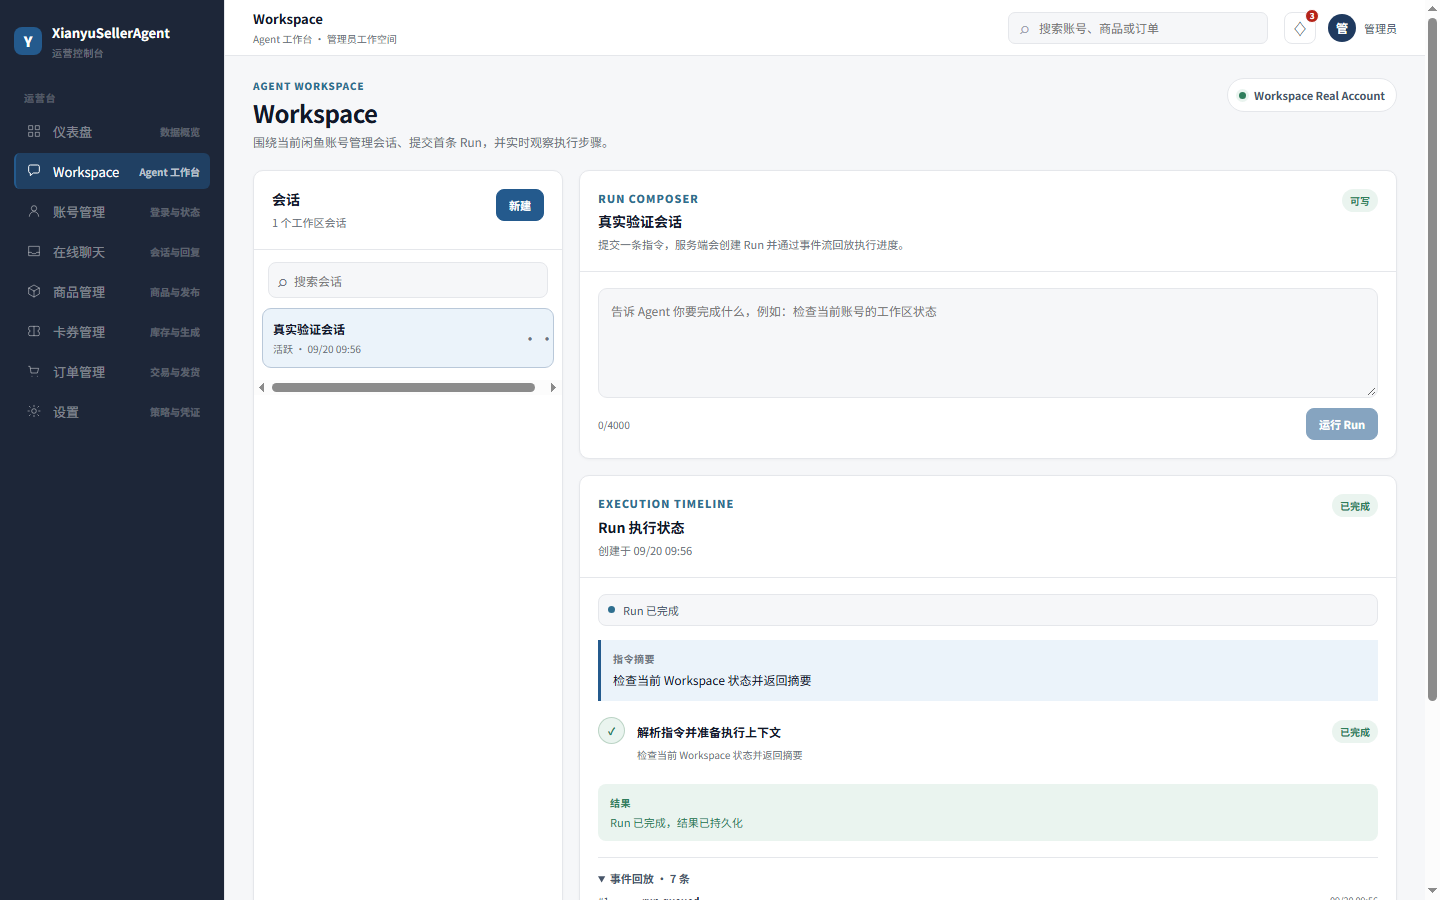
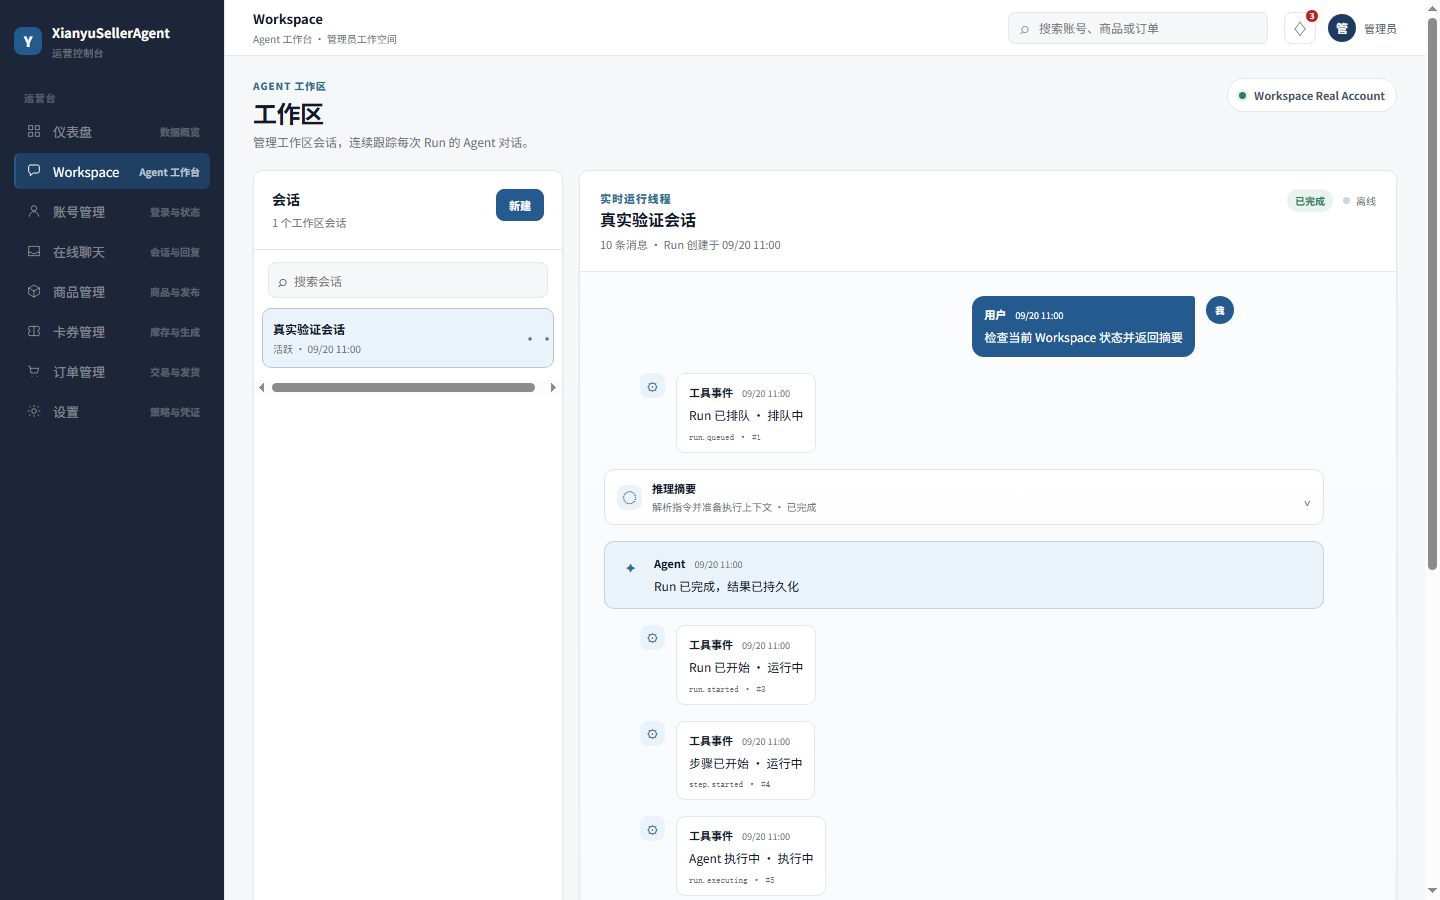
test(workspace): 适配连续消息流真实验收

diff --git a/apps/web/src/features/workspace/components/WorkspacePage.tsx b/apps/web/src/features/workspace/components/WorkspacePage.tsx
@@ -12,8 +12,8 @@ const terminalStatuses = new Set<WorkspaceRunStatus>(['succeeded', 'partially_su
 
 function statusLabel(status: string): string {
   const labels: Record<string, string> = {
-    queued: 'Queued', running: 'Running', waiting_confirmation: 'Waiting for confirmation', executing: 'Executing', retrying: 'Retrying', cancelling: 'Cancelling',
-    succeeded: 'Succeeded', partially_succeeded: 'Partially succeeded', failed: 'Failed', cancelled: 'Cancelled', expired: 'Expired', pending: 'Pending', skipped: 'Skipped',
+    queued: '排队中', running: '运行中', waiting_confirmation: '等待确认', executing: '执行中', retrying: '重试中', cancelling: '取消中',
+    succeeded: '已完成', partially_succeeded: '部分完成', failed: '失败', cancelled: '已取消', expired: '已过期', pending: '待执行', skipped: '已跳过',
   };
   return labels[status] ?? status;
 }
@@ -76,41 +76,41 @@ export function WorkspacePage({ api }: WorkspacePageProps) {
   return (
     <section className="page-stack workspace-domain" data-workspace-domain>
       <div className="page-title workspace-page-title">
-        <div><p className="eyebrow">Agent Workspace</p><h1>Workspace</h1><p>Manage sessions and follow each Run as a continuous agent conversation.</p></div>
-        <div className="workspace-scope"><span className={`workspace-scope-dot ${currentAccountId ? 'online' : ''}`} /><span>{currentAccount?.displayName ?? (contextMissing ? 'No account selected' : 'Loading account')}</span></div>
+        <div><p className="eyebrow">Agent 工作区</p><h1>工作区</h1><p>管理工作区会话，连续跟踪每次 Run 的 Agent 对话。</p></div>
+        <div className="workspace-scope"><span className={`workspace-scope-dot ${currentAccountId ? 'online' : ''}`} /><span>{currentAccount?.displayName ?? (contextMissing ? '未选择账号' : '账号加载中')}</span></div>
       </div>
 
-      {accountsError && <div className="workspace-inline-error" role="alert">Account context failed to load: {accountsError}</div>}
+      {accountsError && <div className="workspace-inline-error" role="alert">账号上下文加载失败：{accountsError}</div>}
       {state.error && <div className="workspace-inline-error" role="alert">{state.error}</div>}
 
-      {contextMissing ? <WorkspaceState title="Select an account first" message="Every Workspace session is scoped to one available Xianyu account." action={<button className="btn primary" type="button" onClick={chooseAccount}>Open accounts</button>} />
-        : state.phase === 'forbidden' ? <WorkspaceState title="Workspace access unavailable" message={state.error ?? 'Your current account scope cannot read Workspace.'} action={<button className="btn ghost" type="button" onClick={() => void controller.reload()}>Retry</button>} />
+      {contextMissing ? <WorkspaceState title="请先选择账号" message="每个工作区会话都绑定一个可用的闲鱼账号。" action={<button className="btn primary" type="button" onClick={chooseAccount}>前往账号管理</button>} />
+        : state.phase === 'forbidden' ? <WorkspaceState title="暂无工作区权限" message={state.error ?? '当前账号范围无法读取工作区。'} action={<button className="btn ghost" type="button" onClick={() => void controller.reload()}>重新加载</button>} />
           : <div className="workspace-layout">
             <aside className="card workspace-sessions-panel">
-              <div className="workspace-panel-head"><div><h2>Sessions</h2><p>{state.sessions.length} workspace sessions</p></div><button className="btn primary" type="button" onClick={() => setShowCreate((value) => !value)}>New</button></div>
-              {showCreate && <form className="workspace-create-form" onSubmit={submitSession}><label htmlFor="workspace-session-title">Session name</label><div className="workspace-create-row"><input id="workspace-session-title" value={newTitle} onChange={(event) => setNewTitle(event.target.value)} placeholder="Daily shop review" autoFocus /><button className="btn primary" type="submit" disabled={state.submitting || !newTitle.trim()}>Save</button></div></form>}
-              <label className="workspace-search"><span aria-hidden="true">⌕</span><input value={search} onChange={(event) => setSearch(event.target.value)} placeholder="Search sessions" aria-label="Search sessions" /></label>
+              <div className="workspace-panel-head"><div><h2>会话</h2><p>{state.sessions.length} 个工作区会话</p></div><button className="btn primary" type="button" onClick={() => setShowCreate((value) => !value)}>新建</button></div>
+              {showCreate && <form className="workspace-create-form" onSubmit={submitSession}><label htmlFor="workspace-session-title">会话名称</label><div className="workspace-create-row"><input id="workspace-session-title" value={newTitle} onChange={(event) => setNewTitle(event.target.value)} placeholder="例如：每日店铺巡检" autoFocus /><button className="btn primary" type="submit" disabled={state.submitting || !newTitle.trim()}>保存</button></div></form>}
+              <label className="workspace-search"><span aria-hidden="true">⌕</span><input value={search} onChange={(event) => setSearch(event.target.value)} placeholder="搜索会话" aria-label="搜索会话" /></label>
               <div className="workspace-session-list">
-                {state.phase === 'loading' && <div className="workspace-list-state">Loading sessions…</div>}
-                {state.phase !== 'loading' && visibleSessions.length === 0 && <div className="workspace-list-state">{state.sessions.length ? 'No matching sessions' : 'No sessions yet — create one to begin'}</div>}
-                {visibleSessions.map((session) => <SessionRow key={session.id} session={session} active={session.id === state.activeSessionId} busy={state.submitting} onSwitch={() => { if (session.status === 'active') void controller.switchSession(session.id); }} onArchive={() => { if (window.confirm(`Archive “${session.title}”?`)) void controller.archiveSession(session.id); }} />)}
+                {state.phase === 'loading' && <div className="workspace-list-state">正在加载会话…</div>}
+                {state.phase !== 'loading' && visibleSessions.length === 0 && <div className="workspace-list-state">{state.sessions.length ? '没有匹配的会话' : '还没有会话，先新建一个'}</div>}
+                {visibleSessions.map((session) => <SessionRow key={session.id} session={session} active={session.id === state.activeSessionId} busy={state.submitting} onSwitch={() => { if (session.status === 'active') void controller.switchSession(session.id); }} onArchive={() => { if (window.confirm(`归档“${session.title}”？`)) void controller.archiveSession(session.id); }} />)}
               </div>
             </aside>
 
             <section className="card workspace-thread" aria-label="Workspace conversation">
               <header className="workspace-thread-header">
-                <div><p className="eyebrow">Live Run Thread</p><h2>{activeSession?.title ?? 'Choose an active session'}</h2><p>{currentRun ? `${messages.length} messages · Run created ${formatTime(currentRun.createdAt)}` : 'Start a Run to see the agent conversation here.'}</p></div>
-                <div className="workspace-thread-meta">{currentRun && <span className={`workspace-status workspace-status-${statusTone(currentRun.status)}`}>{statusLabel(currentRun.status)}</span>}<span className={`workspace-connection workspace-connection-${state.connection}`}><span />{state.connection === 'connected' ? 'Live' : state.connection === 'reconnecting' ? 'Reconnecting' : state.connection === 'connecting' ? 'Connecting' : 'Offline'}</span>{currentRun && !terminalStatuses.has(currentRun.status) && state.connection !== 'connected' && <button className="btn ghost workspace-reconnect-button" type="button" onClick={controller.reconnectRun}>Reconnect</button>}</div>
+                <div><p className="eyebrow">实时运行线程</p><h2>{activeSession?.title ?? '选择活跃会话'}</h2><p>{currentRun ? `${messages.length} 条消息 · Run 创建于 ${formatTime(currentRun.createdAt)}` : '提交 Run 后，这里会展示连续的 Agent 消息流。'}</p></div>
+                <div className="workspace-thread-meta">{currentRun && <span className={`workspace-status workspace-status-${statusTone(currentRun.status)}`}>{statusLabel(currentRun.status)}</span>}<span className={`workspace-connection workspace-connection-${state.connection}`}><span />{state.connection === 'connected' ? '实时' : state.connection === 'reconnecting' ? '重连中' : state.connection === 'connecting' ? '连接中' : '离线'}</span>{currentRun && !terminalStatuses.has(currentRun.status) && state.connection !== 'connected' && <button className="btn ghost workspace-reconnect-button" type="button" onClick={controller.reconnectRun}>重连</button>}</div>
               </header>
 
               <div className="workspace-message-stream">
-                {currentRun ? <MessageStream messages={messages} expandedReasoning={expandedReasoning} onToggleReasoning={(id) => setExpandedReasoning((current) => current === id ? null : id)} /> : <WorkspaceState title="Waiting for the first Run" message={activeSession ? 'Write an instruction below to start a controlled execution.' : 'Choose an active session from the left.'} compact />}
+                {currentRun ? <MessageStream messages={messages} expandedReasoning={expandedReasoning} onToggleReasoning={(id) => setExpandedReasoning((current) => current === id ? null : id)} /> : <WorkspaceState title="等待首条 Run" message={activeSession ? '在下方输入一条指令，开始受控执行。' : '请从左侧选择一个活跃会话。'} compact />}
               </div>
 
               <form className="workspace-composer workspace-composer-docked" onSubmit={submitRun}>
-                <div className="workspace-composer-context"><span className={`workspace-composer-dot ${activeSession?.status === 'active' ? 'ready' : ''}`} /><span>{activeSession?.status === 'active' ? 'Ready to run' : 'Read-only session'}</span></div>
-                <textarea value={instruction} onChange={(event) => setInstruction(event.target.value)} maxLength={4000} disabled={!activeSession || activeSession.status !== 'active' || state.submitting} placeholder="Ask Agent to inspect, plan, or act…" aria-label="Run instruction" />
-                <div className="workspace-composer-foot"><span>{instruction.length}/4000</span><button className="btn primary" type="submit" disabled={!instruction.trim() || !activeSession || activeSession.status !== 'active' || state.submitting}>{state.submitting ? 'Submitting…' : 'Run'}</button></div>
+                <div className="workspace-composer-context"><span className={`workspace-composer-dot ${activeSession?.status === 'active' ? 'ready' : ''}`} /><span>{activeSession?.status === 'active' ? '准备运行' : '只读会话'}</span></div>
+                <textarea value={instruction} onChange={(event) => setInstruction(event.target.value)} maxLength={4000} disabled={!activeSession || activeSession.status !== 'active' || state.submitting} placeholder="请告诉 Agent 要检查、规划或执行什么…" aria-label="Run 指令" />
+                <div className="workspace-composer-foot"><span>{instruction.length}/4000</span><button className="btn primary" type="submit" disabled={!instruction.trim() || !activeSession || activeSession.status !== 'active' || state.submitting}>{state.submitting ? '提交中…' : '运行'}</button></div>
               </form>
             </section>
           </div>}
@@ -120,8 +120,8 @@ export function WorkspacePage({ api }: WorkspacePageProps) {
 
 function SessionRow({ session, active, busy, onSwitch, onArchive }: { session: WorkspaceSessionVM; active: boolean; busy: boolean; onSwitch: () => void; onArchive: () => void }) {
   return <div className={`workspace-session-row ${active ? 'active' : ''} ${session.status === 'archived' ? 'archived' : ''}`}>
-    <button type="button" className="workspace-session-select" onClick={onSwitch} disabled={busy || session.status === 'archived'} aria-pressed={active}><span className="workspace-session-title">{session.title}</span><small>{session.status === 'archived' ? 'Archived' : 'Active'} · {formatTime(session.lastActiveAt)}</small>{session.summary && <small>{session.summary}</small>}</button>
-    <button type="button" className="workspace-session-action" onClick={onArchive} disabled={busy || session.status === 'archived'} aria-label={`Archive ${session.title}`}>•••</button>
+    <button type="button" className="workspace-session-select" onClick={onSwitch} disabled={busy || session.status === 'archived'} aria-pressed={active}><span className="workspace-session-title">{session.title}</span><small>{session.status === 'archived' ? '已归档' : '活跃'} · {formatTime(session.lastActiveAt)}</small>{session.summary && <small>{session.summary}</small>}</button>
+    <button type="button" className="workspace-session-action" onClick={onArchive} disabled={busy || session.status === 'archived'} aria-label={`归档 ${session.title}`}>•••</button>
   </div>;
 }
 
@@ -130,8 +130,8 @@ function MessageStream({ messages, expandedReasoning, onToggleReasoning }: { mes
 }
 
 function MessageBubble({ message, expanded, onToggle }: { message: WorkspaceMessageVM; expanded: boolean; onToggle: () => void }) {
-  if (message.type === 'user_message') return <article className="workspace-message workspace-message-user"><div className="workspace-message-avatar">You</div><div className="workspace-message-content"><div className="workspace-message-meta"><strong>You</strong><time>{formatTime(message.createdAt)}</time></div><p>{message.content}</p></div></article>;
-  if (message.type === 'reasoning_summary') return <article className="workspace-message workspace-message-reasoning"><button type="button" className="workspace-message-toggle" onClick={onToggle} aria-expanded={expanded}><span className="workspace-message-icon">◌</span><span><strong>Reasoning summary</strong><small>{message.summary ?? 'High-level execution summary'}</small></span><span className="workspace-message-chevron">{expanded ? '⌃' : '⌄'}</span></button>{expanded && <div className="workspace-reasoning-body"><p>{message.content}</p></div>}</article>;
+  if (message.type === 'user_message') return <article className="workspace-message workspace-message-user"><div className="workspace-message-avatar">我</div><div className="workspace-message-content"><div className="workspace-message-meta"><strong>用户</strong><time>{formatTime(message.createdAt)}</time></div><p>{message.content}</p></div></article>;
+  if (message.type === 'reasoning_summary') return <article className="workspace-message workspace-message-reasoning"><button type="button" className="workspace-message-toggle" onClick={onToggle} aria-expanded={expanded}><span className="workspace-message-icon">◌</span><span><strong>推理摘要</strong><small>{message.summary ?? '高层执行摘要'}</small></span><span className="workspace-message-chevron">{expanded ? '⌃' : '⌄'}</span></button>{expanded && <div className="workspace-reasoning-body"><p>{message.content}</p></div>}</article>;
   if (message.type === 'tool_event') return <article className="workspace-message workspace-message-tool"><div className="workspace-message-icon">⚙</div><div className="workspace-message-content"><div className="workspace-message-meta"><strong>{message.title}</strong><time>{formatTime(message.createdAt)}</time></div><p>{message.content}</p>{message.eventType && <small className="workspace-message-code">{message.eventType}{message.sequence ? ` · #${message.sequence}` : ''}</small>}</div></article>;
   return <article className={`workspace-message workspace-message-final ${message.status && statusTone(message.status) === 'danger' ? 'is-error' : ''}`}><div className="workspace-message-icon">✦</div><div className="workspace-message-content"><div className="workspace-message-meta"><strong>{message.title}</strong><time>{formatTime(message.createdAt)}</time></div><p>{message.content}</p></div></article>;
 }

diff --git a/apps/web/src/features/workspace/messages.ts b/apps/web/src/features/workspace/messages.ts
@@ -2,35 +2,43 @@ import type { WorkspaceMessageVM, WorkspaceRunEventVM, WorkspaceRunVM, Workspace
 
 const terminalStatuses = new Set(['succeeded', 'partially_succeeded', 'failed', 'cancelled', 'expired']);
 
+function statusLabel(status: string): string {
+  const labels: Record<string, string> = {
+    queued: '排队中', running: '运行中', waiting_confirmation: '等待确认', executing: '执行中', retrying: '重试中', cancelling: '取消中',
+    succeeded: '已完成', partially_succeeded: '部分完成', failed: '失败', cancelled: '已取消', expired: '已过期', pending: '待执行', skipped: '已跳过',
+  };
+  return labels[status] ?? status;
+}
+
 function safeStatus(payload: Record<string, unknown>): string | undefined {
   return typeof payload.status === 'string' ? payload.status : undefined;
 }
 
 function eventTitle(eventType: string): string {
   const labels: Record<string, string> = {
-    'run.queued': 'Run queued',
-    'run.started': 'Run started',
-    'run.executing': 'Agent executing',
-    'run.succeeded': 'Run completed',
-    'run.failed': 'Run failed',
-    'step.started': 'Step started',
-    'step.executing': 'Tool step executing',
-    'step.succeeded': 'Step completed',
-    'step.failed': 'Step failed',
+    'run.queued': 'Run 已排队',
+    'run.started': 'Run 已开始',
+    'run.executing': 'Agent 执行中',
+    'run.succeeded': 'Run 已完成',
+    'run.failed': 'Run 失败',
+    'step.started': '步骤已开始',
+    'step.executing': '工具步骤执行中',
+    'step.succeeded': '步骤已完成',
+    'step.failed': '步骤失败',
   };
   return labels[eventType] ?? eventType.replace(/[._]/g, ' ');
 }
 
 function stepSummary(step: WorkspaceStepVM): string {
   if (step.outputSummary) return step.outputSummary;
-  return `${step.label} is ${step.status}.`;
+  return `${step.label}：${statusLabel(step.status)}。`;
 }
 
 function eventSummary(event: WorkspaceRunEventVM): string {
   const status = safeStatus(event.payload);
   const errorCode = typeof event.payload.errorCode === 'string' ? event.payload.errorCode : undefined;
   if (errorCode) return `${eventTitle(event.eventType)} · ${errorCode}`;
-  if (status) return `${eventTitle(event.eventType)} · ${status}`;
+  if (status) return `${eventTitle(event.eventType)} · ${statusLabel(status)}`;
   return eventTitle(event.eventType);
 }
 
@@ -44,7 +52,7 @@ export function buildWorkspaceMessages(run: WorkspaceRunVM, events: WorkspaceRun
     id: `${run.runId}:user`,
     type: 'user_message',
     createdAt: run.createdAt,
-    title: 'You',
+    title: '用户',
     content: run.instructionSummary,
   }];
 
@@ -54,9 +62,9 @@ export function buildWorkspaceMessages(run: WorkspaceRunVM, events: WorkspaceRun
       id: `${run.runId}:reasoning:${step.stepId}`,
       type: 'reasoning_summary',
       createdAt: step.startedAt ?? run.updatedAt,
-      title: 'Reasoning summary',
+      title: '推理摘要',
       content: stepSummary(step),
-      summary: `${step.label} · ${step.status}`,
+      summary: `${step.label} · ${statusLabel(step.status)}`,
       status: step.status,
       collapsible: true,
     });
@@ -69,7 +77,7 @@ export function buildWorkspaceMessages(run: WorkspaceRunVM, events: WorkspaceRun
       id: `${run.runId}:event:${event.sequence}`,
       type: messageKind ?? 'tool_event',
       createdAt: event.createdAt,
-      title: messageKind === 'reasoning_summary' ? 'Reasoning summary' : messageKind === 'final_answer' ? 'Agent' : 'Tool event',
+      title: messageKind === 'reasoning_summary' ? '推理摘要' : messageKind === 'final_answer' ? 'Agent' : '工具事件',
       content: typeof event.payload.content === 'string' ? event.payload.content : eventSummary(event),
       summary: typeof event.payload.summary === 'string' ? event.payload.summary : undefined,
       eventType: event.eventType,
@@ -85,8 +93,8 @@ export function buildWorkspaceMessages(run: WorkspaceRunVM, events: WorkspaceRun
       id: `${run.runId}:final`,
       type: 'final_answer',
       createdAt: run.finishedAt ?? run.updatedAt,
-      title: failed ? 'Run outcome' : 'Agent',
-      content: run.errorCode ? `${run.errorCode}: ${run.resultSummary ?? 'The run did not complete successfully.'}` : (run.resultSummary ?? `Run ${run.status}.`),
+      title: failed ? 'Run 结果' : 'Agent',
+      content: run.errorCode ? `${run.errorCode}：${run.resultSummary ?? '本次 Run 未成功完成。'}` : (run.resultSummary ?? `Run ${statusLabel(run.status)}。`),
       status: run.status,
     });
   }

diff --git a/apps/web/src/features/workspace/messages.test.ts b/apps/web/src/features/workspace/messages.test.ts
@@ -14,7 +14,7 @@ describe('workspace message projection', () => {
   it('renders the four canonical message types in chronological order', () => {
     const messages = buildWorkspaceMessages(run, events);
     expect(messages.map((message) => message.type)).toEqual(['user_message', 'reasoning_summary', 'tool_event', 'final_answer']);
-    expect(messages[1]).toMatchObject({ collapsible: true, summary: 'Prepare execution context · succeeded' });
+    expect(messages[1]).toMatchObject({ collapsible: true, summary: 'Prepare execution context · 已完成' });
     expect(messages[2]).toMatchObject({ eventType: 'step.succeeded', sequence: 2 });
   });
 
